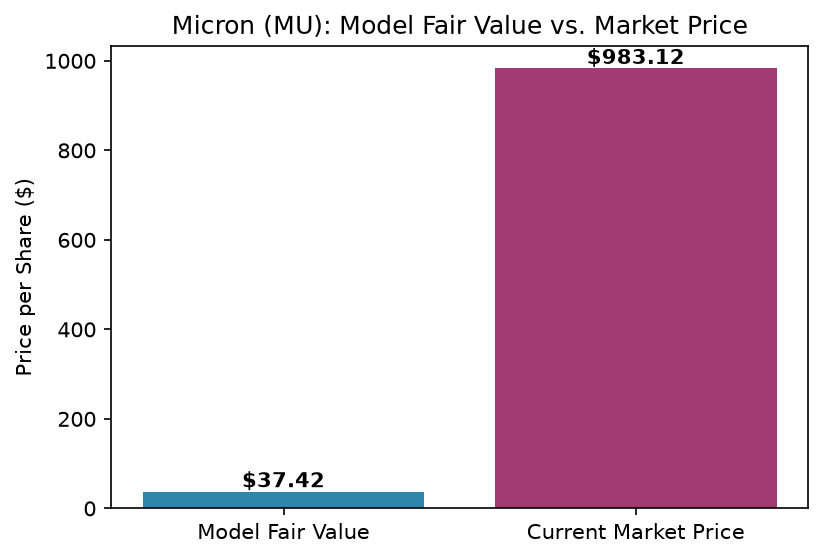
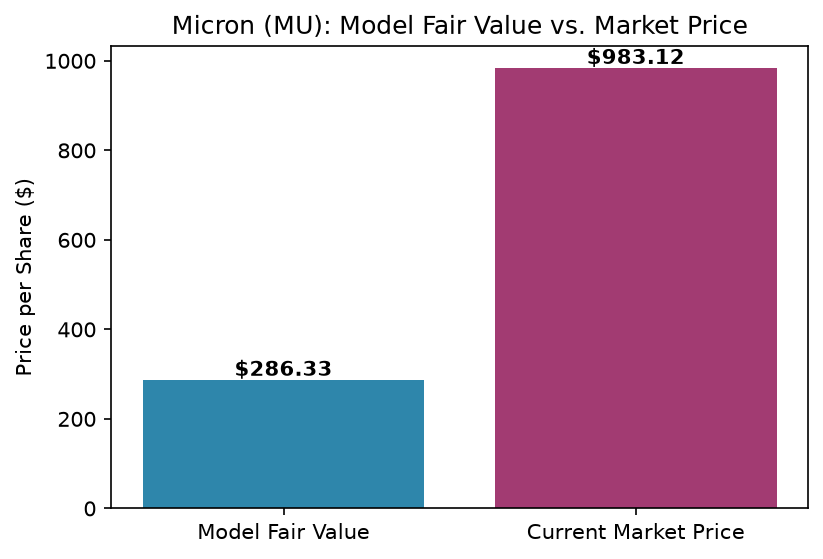
Update chart and assumptions

Changed region(s): [[0.1519, 0.6386, 0.5164, 0.8819]]

diff --git a/data_pull.py b/data_pull.py
@@ -22,21 +22,27 @@ print(f"Current Price: ${current_price}")
 print(f"Shares Outstanding: {shares_outstanding}")
 print(f"Market Cap: ${market_cap}")
 
-# --- DCF PROJECTION ---
+# --- DCF PROJECTION (revised to reflect AI-driven memory supercycle) ---
 latest_revenue = revenue.iloc[0]
-revenue_growth_rate = 0.10
-normalized_fcf_margin = 0.065
-discount_rate = 0.10
-terminal_growth_rate = 0.03
+
+# Assumptions calibrated to Street consensus (UBS, BofA, Citi lower bound)
+# Reflects DRAM pricing surge, HBM demand, and constrained supply through 2027
+discount_rate = 0.09
+terminal_growth_rate = 0.04
 projection_years = 5
+
+# Tapering growth: aggressive near-term (supply-constrained pricing), 
+# normalizing as new capacity comes online post-2027
+growth_rates = [0.35, 0.35, 0.25, 0.20, 0.15]
+fcf_margins = [0.18, 0.20, 0.20, 0.18, 0.17]  # margin expansion then slight normalization
 
 projected_revenue = []
 projected_fcf = []
 rev = latest_revenue
 
-for year in range(1, projection_years + 1):
-    rev = rev * (1 + revenue_growth_rate)
-    fcf_year = rev * normalized_fcf_margin
+for year in range(projection_years):
+    rev = rev * (1 + growth_rates[year])
+    fcf_year = rev * fcf_margins[year]
     projected_revenue.append(rev)
     projected_fcf.append(fcf_year)
 